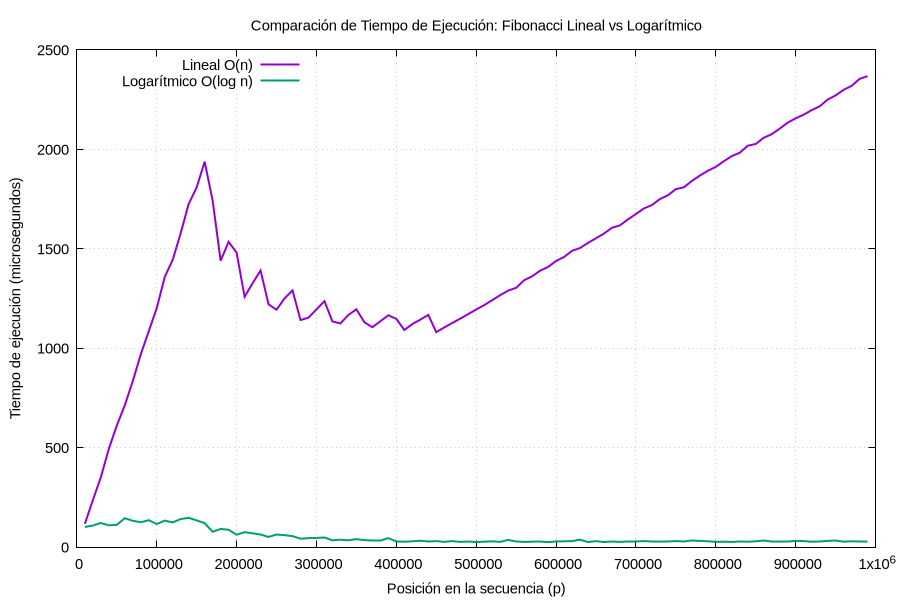
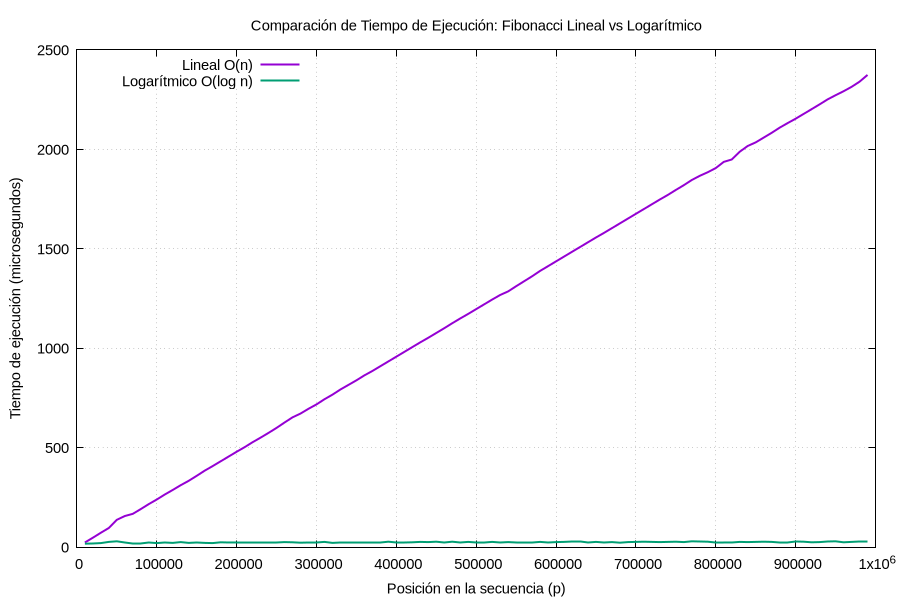
Average benchmark execution time to remove measurement spike

diff --git a/fibonacci.cpp b/fibonacci.cpp
@@ -1,7 +1,7 @@
 #include<iostream>
 #include<vector>
 #include<chrono>
-
+#define AVERAGE_MEASURE 100
 extern std::vector<std::vector<int>> powerMatrixLog(std::vector<std::vector<int>> matrix, int position);
 int fibonacciLinear(int position){
     int accumulator = 1;
@@ -27,16 +27,22 @@ int fibonacciLogarithmic(int position, std::vector<std::vector<int>> matrix){
 
 double measureFibonacciLinear(int position) {
     auto start = std::chrono::high_resolution_clock::now();
-    fibonacciLinear(position);
+    for(int i = 0; i < AVERAGE_MEASURE; ++i){
+        fibonacciLinear(position);
+    }
     auto end = std::chrono::high_resolution_clock::now();
-    return std::chrono::duration<double, std::micro>(end - start).count();
+    double totalMicroseconds = std::chrono::duration<double, std::micro>(end - start).count();
+    return totalMicroseconds/AVERAGE_MEASURE;
 }
 
 double measureFibonacciLogarithmic(int position, const std::vector<std::vector<int>>& matrix) {
     auto start = std::chrono::high_resolution_clock::now();
-    fibonacciLogarithmic(position, matrix);
+    for(int i = 0; i < AVERAGE_MEASURE; ++i){
+        fibonacciLogarithmic(position, matrix);
+    }
     auto end = std::chrono::high_resolution_clock::now();
-    return std::chrono::duration<double, std::micro>(end - start).count();
+    double totalMicroseconds = std::chrono::duration<double, std::micro>(end - start).count();
+    return totalMicroseconds/AVERAGE_MEASURE;
 }
 
 int main(){
